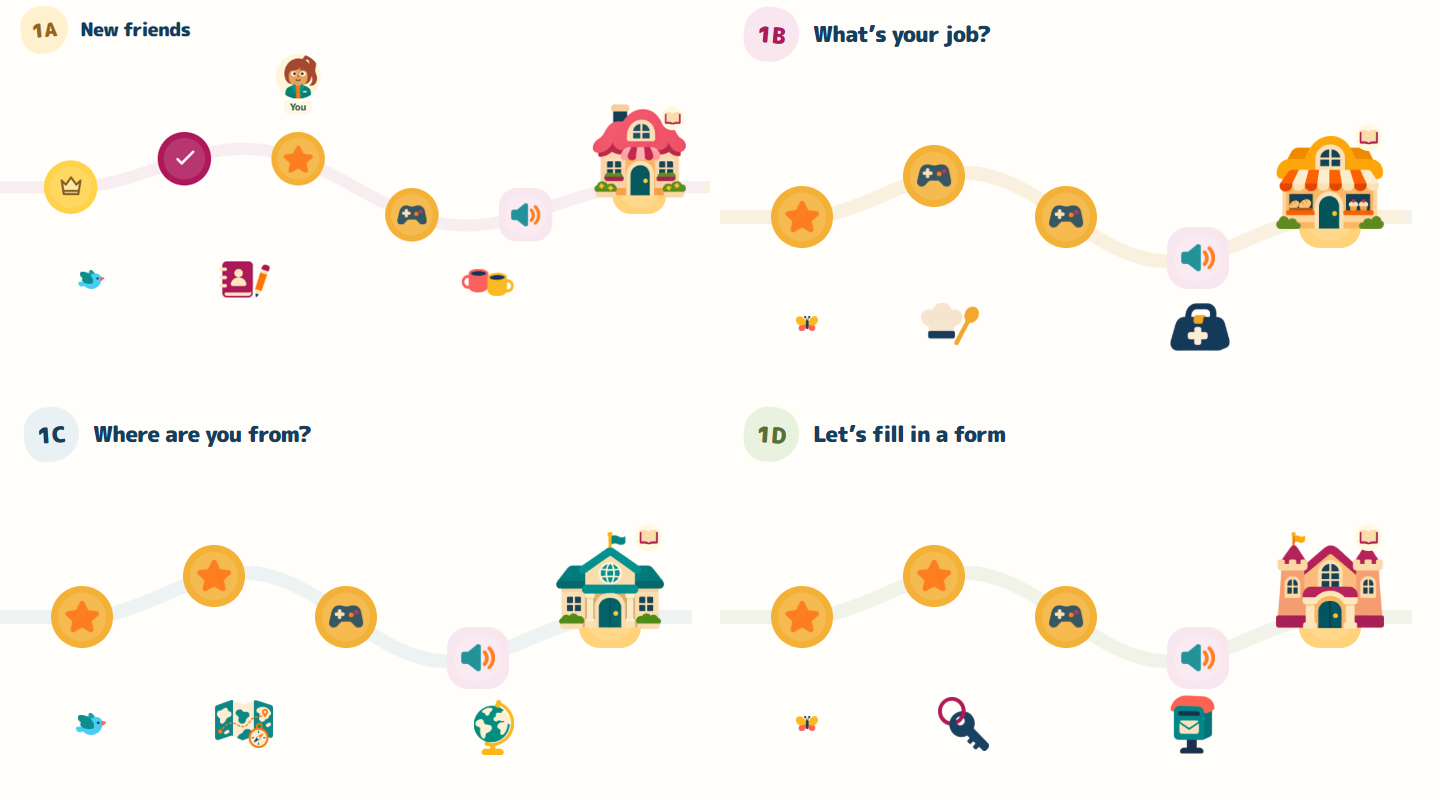
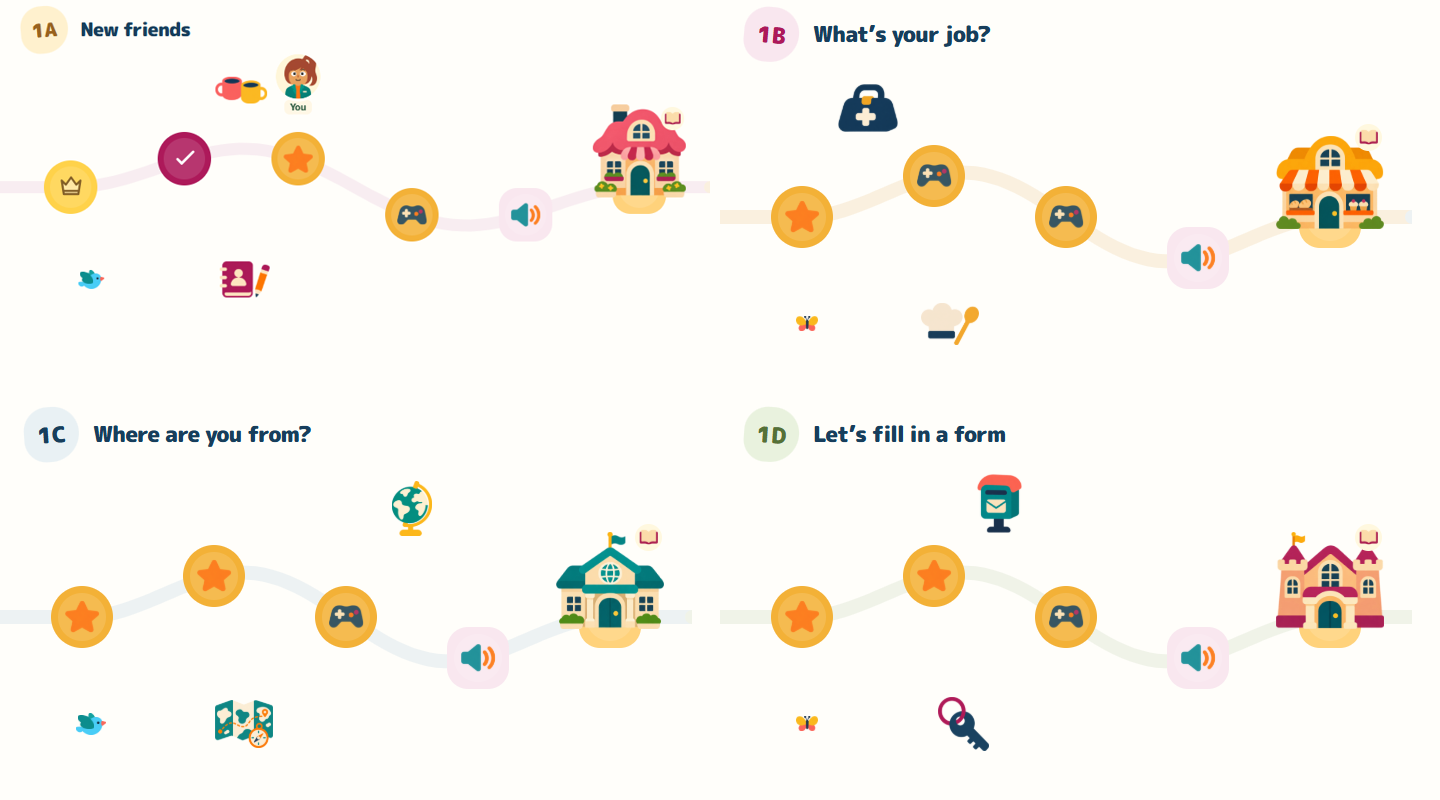
Balance lesson decorations above and below the trail

diff --git a/Horizons/App/service-worker.js b/Horizons/App/service-worker.js
@@ -1,6 +1,6 @@
-const CACHE='horizons-companion-lesson-areas-v55';
+const CACHE='horizons-companion-lesson-areas-v56';
 const BASE=new URL('./',self.location.href).pathname;
-const CORE=['./assets/art/lesson-area-tiles-v1/cafe-cups.png','./assets/art/lesson-area-tiles-v1/work-bag.png','./assets/art/lesson-area-tiles-v1/globe.png','./assets/art/lesson-area-tiles-v1/postbox.png','./assets/audio/milestones-v1/lesson-complete.mp3','./assets/audio/milestones-v1/island-mastered.mp3','./src/feedback-sound.js?v=areas1','./assets/audio/feedback-v1/correct.mp3','./assets/audio/feedback-v1/wrong.mp3','./assets/art/avatar-face-v2/rest-anchors.frames.json','./assets/art/avatar-face-v2/blank-heads.png','./assets/art/avatar-face-v2/eye-left.png','./assets/art/avatar-face-v2/eye-right.png','./assets/art/avatar-face-v2/pupil.png','./assets/art/avatar-face-v2/brow-left.png','./assets/art/avatar-face-v2/brow-right.png','./assets/art/avatar-face-v2/nose.png','./assets/art/avatar-face-v2/mouth.png','./assets/art/avatar-face-v2/lid-left.png','./assets/art/avatar-face-v2/lid-right.png','./src/avatar-motion.js?v=areas1','./assets/art/avatar-round-v3/heads.png','./src/unit-navigation.js?v=areas1','./assets/art/bird-hover-v1/body.png','./assets/art/bird-hover-v1/wing-near.png','./assets/art/bird-hover-v1/wing-far.png','./assets/art/lesson-props-v1/greetings.png','./assets/art/lesson-props-v1/jobs.png','./assets/art/lesson-props-v1/countries.png','./assets/art/lesson-props-v1/personal.png','./src/overworld-motion.js?v=areas1','./styles/overworld.css?v=areas1','./assets/art/overworld-unit1-v1/bird.png','./assets/art/overworld-unit1-v1/butterfly.png','./assets/art/overworld-unit1-v1/landmark-0.png','./assets/art/overworld-unit1-v1/landmark-1.png','./assets/art/overworld-unit1-v1/landmark-2.png','./assets/art/overworld-unit1-v1/landmark-3.png','./styles/horizontal-path.css?v=areas1','./assets/art/pico-banner-motion-v1/head-faceless-registered.png','./assets/art/pico-banner-motion-v1/face-neutral-eyes.png','./assets/art/pico-banner-motion-v1/face-neutral-brows-mouth.png','./assets/art/pico-banner-motion-v1/face-nose.png','./assets/art/pico-banner-motion-v1/face-blink-eyelids.png','./assets/art/pico-banner-motion-v1/face-inspect-features.png','./assets/art/pico-banner-motion-v1/pupils-native.png','./assets/art/pico-banner-motion-v1/eyes-mask.png','./src/pico-banner-motion.js?v=areas1','./assets/art/pico-banner-motion-v1/head-registered.png','./assets/art/pico-banner-motion-v1/body-registered.png','./assets/art/pico-banner-motion-v1/map-registered.png','./content/island-mastery.mjs','./src/studio-ui.js?v=areas1','./src/ui-motion.js?v=areas1','./assets/art/avatar-change-sparkles-v1.png','./','./index.html','./styles/app.css?v=areas1','./src/app.js?v=areas1','./src/api-client.js','./src/lesson-art.js?v=colors1','./src/art.js?v=areas1','./src/avatar-static.js?v=areas1','./assets/art/avatar-static-v1.frames.json?round=1','./assets/art/manifest.json?round=1','./content/translations.mjs','./content/answer-matching.mjs','./content/unit1.mjs','./content/engine.mjs','./content/source-banks.mjs','./assets/fonts/MPLUSRounded1c-Regular.woff2','./assets/fonts/MPLUSRounded1c-ExtraBold.woff2','./assets/fonts/BebasNeue-Regular.woff2'];
+const CORE=['./assets/art/lesson-area-tiles-v1/cafe-cups.png','./assets/art/lesson-area-tiles-v1/work-bag.png','./assets/art/lesson-area-tiles-v1/globe.png','./assets/art/lesson-area-tiles-v1/postbox.png','./assets/audio/milestones-v1/lesson-complete.mp3','./assets/audio/milestones-v1/island-mastered.mp3','./src/feedback-sound.js?v=areas1','./assets/audio/feedback-v1/correct.mp3','./assets/audio/feedback-v1/wrong.mp3','./assets/art/avatar-face-v2/rest-anchors.frames.json','./assets/art/avatar-face-v2/blank-heads.png','./assets/art/avatar-face-v2/eye-left.png','./assets/art/avatar-face-v2/eye-right.png','./assets/art/avatar-face-v2/pupil.png','./assets/art/avatar-face-v2/brow-left.png','./assets/art/avatar-face-v2/brow-right.png','./assets/art/avatar-face-v2/nose.png','./assets/art/avatar-face-v2/mouth.png','./assets/art/avatar-face-v2/lid-left.png','./assets/art/avatar-face-v2/lid-right.png','./src/avatar-motion.js?v=areas1','./assets/art/avatar-round-v3/heads.png','./src/unit-navigation.js?v=areas1','./assets/art/bird-hover-v1/body.png','./assets/art/bird-hover-v1/wing-near.png','./assets/art/bird-hover-v1/wing-far.png','./assets/art/lesson-props-v1/greetings.png','./assets/art/lesson-props-v1/jobs.png','./assets/art/lesson-props-v1/countries.png','./assets/art/lesson-props-v1/personal.png','./src/overworld-motion.js?v=areas1','./styles/overworld.css?v=areas2','./assets/art/overworld-unit1-v1/bird.png','./assets/art/overworld-unit1-v1/butterfly.png','./assets/art/overworld-unit1-v1/landmark-0.png','./assets/art/overworld-unit1-v1/landmark-1.png','./assets/art/overworld-unit1-v1/landmark-2.png','./assets/art/overworld-unit1-v1/landmark-3.png','./styles/horizontal-path.css?v=areas1','./assets/art/pico-banner-motion-v1/head-faceless-registered.png','./assets/art/pico-banner-motion-v1/face-neutral-eyes.png','./assets/art/pico-banner-motion-v1/face-neutral-brows-mouth.png','./assets/art/pico-banner-motion-v1/face-nose.png','./assets/art/pico-banner-motion-v1/face-blink-eyelids.png','./assets/art/pico-banner-motion-v1/face-inspect-features.png','./assets/art/pico-banner-motion-v1/pupils-native.png','./assets/art/pico-banner-motion-v1/eyes-mask.png','./src/pico-banner-motion.js?v=areas1','./assets/art/pico-banner-motion-v1/head-registered.png','./assets/art/pico-banner-motion-v1/body-registered.png','./assets/art/pico-banner-motion-v1/map-registered.png','./content/island-mastery.mjs','./src/studio-ui.js?v=areas1','./src/ui-motion.js?v=areas1','./assets/art/avatar-change-sparkles-v1.png','./','./index.html','./styles/app.css?v=areas1','./src/app.js?v=areas1','./src/api-client.js','./src/lesson-art.js?v=colors1','./src/art.js?v=areas1','./src/avatar-static.js?v=areas1','./assets/art/avatar-static-v1.frames.json?round=1','./assets/art/manifest.json?round=1','./content/translations.mjs','./content/answer-matching.mjs','./content/unit1.mjs','./content/engine.mjs','./content/source-banks.mjs','./assets/fonts/MPLUSRounded1c-Regular.woff2','./assets/fonts/MPLUSRounded1c-ExtraBold.woff2','./assets/fonts/BebasNeue-Regular.woff2'];
 self.addEventListener('install',event=>{event.waitUntil(caches.open(CACHE).then(cache=>cache.addAll(CORE)).catch(()=>{}));self.skipWaiting();});
 self.addEventListener('activate',event=>{event.waitUntil(caches.keys().then(keys=>Promise.all(keys.filter(key=>key.startsWith('horizons-companion-')&&key!==CACHE).map(key=>caches.delete(key)))).then(()=>self.clients.claim()));});
 self.addEventListener('fetch',event=>{

diff --git a/Horizons/App/styles/overworld.css b/Horizons/App/styles/overworld.css
@@ -59,13 +59,14 @@
 .bird-rig img{position:absolute;object-fit:contain;max-width:none;pointer-events:none}
 .bird-body{width:100%;left:0;bottom:0;z-index:1}.bird-near{width:51%;left:7%;bottom:23%;transform-origin:88% 86%;z-index:2}.bird-far{width:37%;left:30%;bottom:49%;transform-origin:78% 90%}
 
-/* Two distinct lesson objects and one local wildlife accent leave the route open. */
+/* Alternate topic objects above and below; upper slots sit between portrait columns. */
 .overworld-map .area-prop{top:auto;bottom:20px;height:54px;width:58px}
 .overworld-map .area-prop-0{left:31%}
-.overworld-map .area-prop-1{left:65%;width:60px;height:55px;bottom:16px}
+.overworld-map .area-prop-1{left:250px;top:14px;bottom:auto;width:60px;height:55px}
 .overworld-map .lesson-2 .area-prop-0{left:29%}
-.overworld-map .lesson-3 .area-prop-1{left:67%}
-.overworld-map .lesson-4 .area-prop-1{width:45px;height:62px;bottom:15px}
+.overworld-map .lesson-2 .area-prop-1{left:118px;top:18px}
+.overworld-map .lesson-3 .area-prop-1{left:382px;top:18px}
+.overworld-map .lesson-4 .area-prop-1{left:257px;top:10px;width:45px;height:62px}
 .overworld-map .world-fauna{left:11%;right:auto;top:auto;bottom:36px}
 .overworld-map .world-bird{width:30px;height:25px}
 .overworld-map .world-butterfly{width:22px;height:23px}

diff --git a/Horizons/App/index.html b/Horizons/App/index.html
@@ -35,7 +35,7 @@
   <link rel="preload" href="./assets/fonts/MPLUSRounded1c-ExtraBold.woff2" as="font" type="font/woff2" crossorigin>
   <link rel="stylesheet" href="./styles/app.css?v=areas1">
   <link rel="stylesheet" href="./styles/horizontal-path.css?v=areas1">
-  <link rel="stylesheet" href="./styles/overworld.css?v=areas1">
+  <link rel="stylesheet" href="./styles/overworld.css?v=areas2">
 </head>
 <body>
   <div id="app" aria-busy="true"><div class="boot-screen"><span class="wordmark">HORIZONS</span><span class="boot-dot" aria-label="Loading Horizons"></span></div></div>

diff --git a/Horizons/App/docs/OVERWORLD.md b/Horizons/App/docs/OVERWORLD.md
@@ -11,13 +11,13 @@ The supplied 4.27-second recording showed repetitive tree/bush/grass dressing an
 | 1C Where are you from? | Travel map and compass | Globe | Bird |
 | 1D Let's fill in a form | Keys | Postbox | Butterfly |
 
-The lower decoration lane leaves the route, moving portrait and headings open. Each area has its own topic dressing; do not default to repeating the same plants across lessons. The existing plant assets remain available in the library but are no longer rendered or precached for this map. There are no whole-scene panels, terrain chunks, new text labels or helper messages. The plain paper surface, accepted island colors, minimal details, side arrows, vertical wheel and touch/mouse navigation remain.
+The two topic objects are split above and below the route. Upper positions vary by lesson and sit between portrait columns, leaving island controls, the selected portrait and headings clear. The wildlife accent remains below. Each area has its own topic dressing; do not default to repeating the same plants across lessons. The existing plant assets remain available in the library but are no longer rendered or precached for this map. There are no whole-scene panels, terrain chunks, new text labels or helper messages. The plain paper surface, accepted island colors, minimal details, side arrows, vertical wheel and touch/mouse navigation remain.
 
 ![Four reviewed lesson areas](lesson-area-tiles/areas-review.png)
 
 All four new tiles used built-in ImageGen with the mandatory R01/R02/R07 images actually attached (three inputs each). Two outputs needed isolated opacity/edge repairs using the exact targets (four inputs each). Native bytes and rejected results are retained; only documented alpha extraction, geometric cropping and uniform display scaling were applied. [Exact prompts and provenance](lesson-area-tiles/production-record.json), [native/crop mapping](../assets/art/lesson-area-tiles-v1/tileset.json), [background/size review](lesson-area-tiles/alpha-and-size-review.png). Root reviewed the sources and a separate integrated map comparison; no independent reviewer is claimed.
 
-`tools/lesson-area-proof.mjs` passes all84 island/portrait/detail placements at320/390/768/1440px, decoration clearance, unique per-lesson mappings, unchanged trail/IDs, no scrollbar or added helper copy, hover/end arrows, vertical wheel, mouse drag, native touch swipe, click-only avatar and reduced motion. Its backend calls are intercepted and restricted to a fictional getSession response; no learner records are used or written. See `reports/lesson-area-proof.json`. Cache lesson-areas-v55; queries areas1. Physical-device testing remains outside this browser-emulation evidence.
+`tools/lesson-area-proof.mjs` passes all84 island/portrait/detail placements at320/390/768/1440px, decoration clearance, unique per-lesson mappings, unchanged trail/IDs, no scrollbar or added helper copy, hover/end arrows, vertical wheel, mouse drag, native touch swipe, click-only avatar and reduced motion. Its backend calls are intercepted and restricted to a fictional getSession response; no learner records are used or written. See `reports/lesson-area-proof.json`. Cache lesson-areas-v56; overworld stylesheet query areas2, existing modules areas1. Physical-device testing remains outside this browser-emulation evidence.
 
 Latest correction: bird wings flap using ROTATION ONLY (-35 to55 degrees); no wing squash, stretch or skew and no whole-bird scaling. Saved player portrait changes island only on explicit island activation (mouse/touch click or equivalent keyboard activation), never on hover/focus/leave or auto-retargeting while scrolling. Scrolling the selected island out of view hides the portrait until it returns; it does not select another island. Initial placement is allowed. Hover arrows and other accepted controls remain.
 

diff --git a/Horizons/App/APP-AUDIT.md b/Horizons/App/APP-AUDIT.md
@@ -1,5 +1,7 @@
 # Horizons website process audit
 
+Latest placement correction: keep the same sparse lesson-specific artwork, but place one topic object above and one below each lesson trail. Upper positions vary by lesson and sit between island/portrait columns. No additional decorations or artwork generation. Cache lesson-areas-v56; overworld stylesheet query areas2 (existing modules stay areas1).
+
 Latest map cleanup: remove repeated plant dressing from the active path. Each lesson now has two unique topic objects and one local wildlife accent: 1A address book/cafe cups, 1B chef tools/work bag, 1C map/globe, 1D keys/postbox. Decorative elements fall from28 to12 across Unit1; the four landmarks remain, with artwork reduced from120x124 to108x112 CSS pixels. Trail/island geometry and308px height remain. Plain paper, click-only player selection, portrait-above/details-below, vertical wheel, hover arrows and native swipe/drag remain. New isolated ImageGen tiles and exact inputs/prompts: [production record](docs/lesson-area-tiles/production-record.json). See [OVERWORLD.md](docs/OVERWORLD.md). Cache lesson-areas-v55; queries areas1.
 
 Latest milestone sounds: native ElevenLabs lesson-complete and island-mastery cues. Successful saved rounds play completion; newly server-confirmed crowns play mastery instead, once. Failed saves, existing crowns and rerenders do not replay a mastery reward. Shared remembered mute, navigation/hidden-page cancellation, retry handling and pre-save audio unlock are verified with synthetic sessions. See [SOUND-PRODUCTION.md](docs/SOUND-PRODUCTION.md). Cache milestone-sounds-v54; queries milestones1.

diff --git a/Horizons/App/docs/SESSION-HANDOFF.md b/Horizons/App/docs/SESSION-HANDOFF.md
@@ -1,5 +1,7 @@
 # Horizons website session handoff
 
+Latest placement correction: keep the same sparse lesson-specific artwork, but place one topic object above and one below each lesson trail. Upper positions vary by lesson and sit between island/portrait columns. No additional decorations or artwork generation. Cache lesson-areas-v56; overworld stylesheet query areas2 (existing modules stay areas1).
+
 Latest map cleanup: Unit1 now uses two distinct topic-object tiles and one wildlife accent per lesson (28→12 decorations); repetitive plants are retired from the route, preserved in the asset library. 1A cafe cups, 1B work bag, 1C globe, 1D postbox supplement their existing lesson props. Four native landmarks are slightly smaller;308px path, all21 islands, avatar/details, controls and sounds remain. Production/provenance: [lesson-area-tiles/production-record.json](lesson-area-tiles/production-record.json). Placement/control evidence: reports/lesson-area-proof.json. Cache lesson-areas-v55; queries areas1.
 
 Latest milestone sounds: native ElevenLabs v3 assets in assets/audio/milestones-v1; saved rounds play completion, newly earned server-confirmed island crowns play mastery instead. Shared remembered mute includes all four cues. New files, exact briefs, provenance, async-save handling and QA: [SOUND-PRODUCTION.md](SOUND-PRODUCTION.md). Cache milestone-sounds-v54; queries milestones1.
